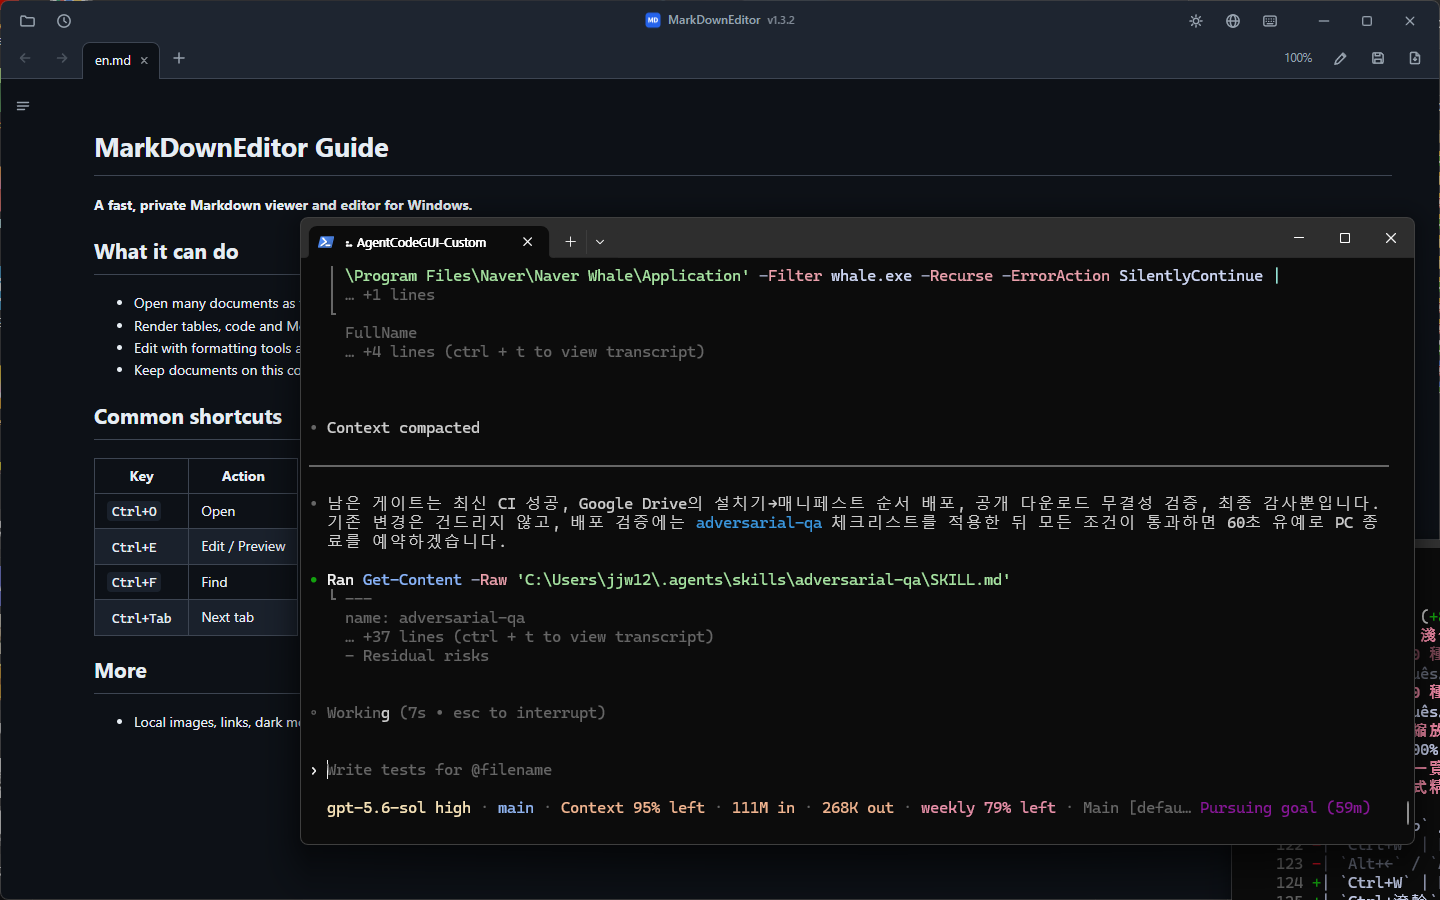
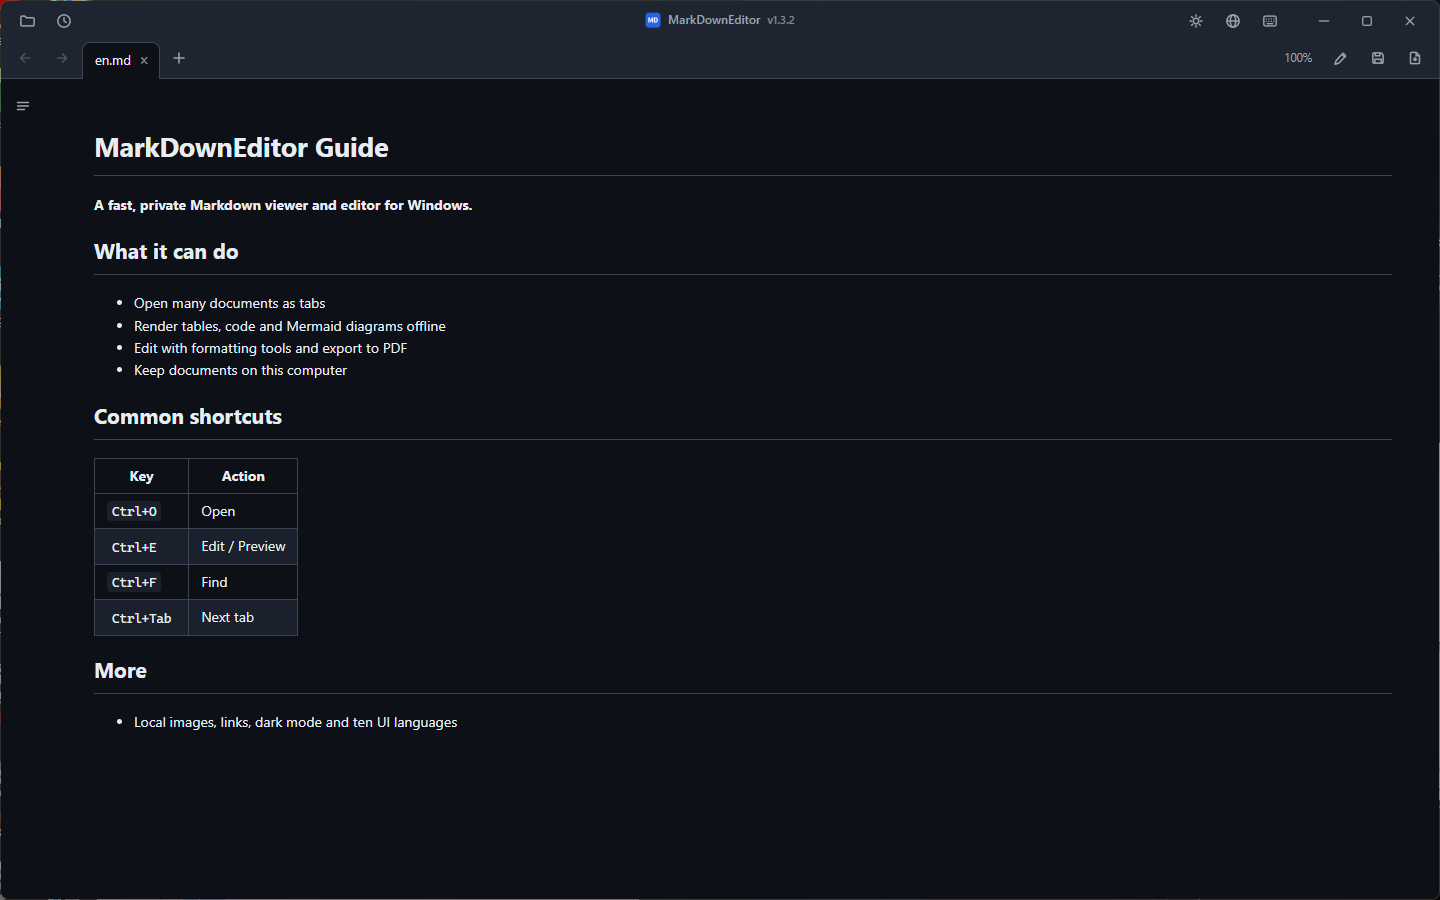
README 스크린샷 노출 정리
영어 미리보기의 터미널 노출을 제거하고 캡처 시 대상 창을 전면 활성화하도록 보강. 외부 캐시 오류를 보인 Downloads 배지는 모든 언어 README에서 제거.

diff --git a/README.md b/README.md
@@ -6,7 +6,6 @@ MarkDownEditor is a Markdown viewer and editor for Windows 10 and 11. Set it as 
 ![Platform](https://img.shields.io/badge/platform-Windows%2010%2F11%20x64-0078d6)
 ![Languages](https://img.shields.io/badge/UI-10%20languages-2ea44f)
 [![Release](https://img.shields.io/github/v/release/jjw1270/MarkdownEditor?include_prereleases)](https://github.com/jjw1270/MarkdownEditor/releases)
-[![Downloads](https://img.shields.io/github/downloads/jjw1270/MarkdownEditor/total?color=success)](https://github.com/jjw1270/MarkdownEditor/releases)
 
 [한국어](README.ko.md) · **English** · [日本語](README.ja.md) · [简体中文](README.zh-CN.md) · [繁體中文](README.zh-TW.md) · [Español](README.es.md) · [Français](README.fr.md) · [Deutsch](README.de.md) · [Русский](README.ru.md) · [Português (Brasil)](README.pt-BR.md)
 

diff --git a/README.de.md b/README.de.md
@@ -6,7 +6,6 @@ MarkDownEditor ist ein Markdown-Viewer und -Editor für Windows 10 und 11. Es gi
 ![Platform](https://img.shields.io/badge/platform-Windows%2010%2F11%20x64-0078d6)
 ![Languages](https://img.shields.io/badge/UI-10%20languages-2ea44f)
 [![Release](https://img.shields.io/github/v/release/jjw1270/MarkdownEditor?include_prereleases)](https://github.com/jjw1270/MarkdownEditor/releases)
-[![Downloads](https://img.shields.io/github/downloads/jjw1270/MarkdownEditor/total?color=success)](https://github.com/jjw1270/MarkdownEditor/releases)
 
 [한국어](README.ko.md) · [English](README.md) · [日本語](README.ja.md) · [简体中文](README.zh-CN.md) · [繁體中文](README.zh-TW.md) · [Español](README.es.md) · [Français](README.fr.md) · **Deutsch** · [Русский](README.ru.md) · [Português (Brasil)](README.pt-BR.md)
 

diff --git a/README.es.md b/README.es.md
@@ -6,7 +6,6 @@ MarkDownEditor es un visor y editor de Markdown para Windows 10 y 11. Está disp
 ![Platform](https://img.shields.io/badge/platform-Windows%2010%2F11%20x64-0078d6)
 ![Languages](https://img.shields.io/badge/UI-10%20languages-2ea44f)
 [![Release](https://img.shields.io/github/v/release/jjw1270/MarkdownEditor?include_prereleases)](https://github.com/jjw1270/MarkdownEditor/releases)
-[![Downloads](https://img.shields.io/github/downloads/jjw1270/MarkdownEditor/total?color=success)](https://github.com/jjw1270/MarkdownEditor/releases)
 
 [한국어](README.ko.md) · [English](README.md) · [日本語](README.ja.md) · [简体中文](README.zh-CN.md) · [繁體中文](README.zh-TW.md) · **Español** · [Français](README.fr.md) · [Deutsch](README.de.md) · [Русский](README.ru.md) · [Português (Brasil)](README.pt-BR.md)
 

diff --git a/README.fr.md b/README.fr.md
@@ -6,7 +6,6 @@ MarkDownEditor est un visualiseur et éditeur Markdown pour Windows 10 et 11. Il
 ![Platform](https://img.shields.io/badge/platform-Windows%2010%2F11%20x64-0078d6)
 ![Languages](https://img.shields.io/badge/UI-10%20languages-2ea44f)
 [![Release](https://img.shields.io/github/v/release/jjw1270/MarkdownEditor?include_prereleases)](https://github.com/jjw1270/MarkdownEditor/releases)
-[![Downloads](https://img.shields.io/github/downloads/jjw1270/MarkdownEditor/total?color=success)](https://github.com/jjw1270/MarkdownEditor/releases)
 
 [한국어](README.ko.md) · [English](README.md) · [日本語](README.ja.md) · [简体中文](README.zh-CN.md) · [繁體中文](README.zh-TW.md) · [Español](README.es.md) · **Français** · [Deutsch](README.de.md) · [Русский](README.ru.md) · [Português (Brasil)](README.pt-BR.md)
 

diff --git a/README.ko.md b/README.ko.md
@@ -6,7 +6,6 @@ MarkDownEditor는 Windows 10·11용 마크다운 뷰어 겸 에디터입니다. 
 ![Platform](https://img.shields.io/badge/platform-Windows%2010%2F11%20x64-0078d6)
 ![Languages](https://img.shields.io/badge/UI-10%20languages-2ea44f)
 [![Release](https://img.shields.io/github/v/release/jjw1270/MarkdownEditor?include_prereleases)](https://github.com/jjw1270/MarkdownEditor/releases)
-[![Downloads](https://img.shields.io/github/downloads/jjw1270/MarkdownEditor/total?color=success)](https://github.com/jjw1270/MarkdownEditor/releases)
 
 **한국어** · [English](README.md) · [日本語](README.ja.md) · [简体中文](README.zh-CN.md) · [繁體中文](README.zh-TW.md) · [Español](README.es.md) · [Français](README.fr.md) · [Deutsch](README.de.md) · [Русский](README.ru.md) · [Português (Brasil)](README.pt-BR.md)
 

diff --git a/README.ru.md b/README.ru.md
@@ -6,7 +6,6 @@ MarkDownEditor — просмотрщик и редактор Markdown для Wi
 ![Platform](https://img.shields.io/badge/platform-Windows%2010%2F11%20x64-0078d6)
 ![Languages](https://img.shields.io/badge/UI-10%20languages-2ea44f)
 [![Release](https://img.shields.io/github/v/release/jjw1270/MarkdownEditor?include_prereleases)](https://github.com/jjw1270/MarkdownEditor/releases)
-[![Downloads](https://img.shields.io/github/downloads/jjw1270/MarkdownEditor/total?color=success)](https://github.com/jjw1270/MarkdownEditor/releases)
 
 [한국어](README.ko.md) · [English](README.md) · [日本語](README.ja.md) · [简体中文](README.zh-CN.md) · [繁體中文](README.zh-TW.md) · [Español](README.es.md) · [Français](README.fr.md) · [Deutsch](README.de.md) · **Русский** · [Português (Brasil)](README.pt-BR.md)
 

diff --git a/README.pt-BR.md b/README.pt-BR.md
@@ -6,7 +6,6 @@ MarkDownEditor é um visualizador e editor de Markdown para Windows 10 e 11. Ele
 ![Platform](https://img.shields.io/badge/platform-Windows%2010%2F11%20x64-0078d6)
 ![Languages](https://img.shields.io/badge/UI-10%20languages-2ea44f)
 [![Release](https://img.shields.io/github/v/release/jjw1270/MarkdownEditor?include_prereleases)](https://github.com/jjw1270/MarkdownEditor/releases)
-[![Downloads](https://img.shields.io/github/downloads/jjw1270/MarkdownEditor/total?color=success)](https://github.com/jjw1270/MarkdownEditor/releases)
 
 [한국어](README.ko.md) · [English](README.md) · [日本語](README.ja.md) · [简体中文](README.zh-CN.md) · [繁體中文](README.zh-TW.md) · [Español](README.es.md) · [Français](README.fr.md) · [Deutsch](README.de.md) · [Русский](README.ru.md) · **Português (Brasil)**
 

diff --git a/README.zh-CN.md b/README.zh-CN.md
@@ -6,7 +6,6 @@ MarkDownEditor 是适用于 Windows 10 和 11 的 Markdown 查看器与编辑器
 ![Platform](https://img.shields.io/badge/platform-Windows%2010%2F11%20x64-0078d6)
 ![Languages](https://img.shields.io/badge/UI-10%20languages-2ea44f)
 [![Release](https://img.shields.io/github/v/release/jjw1270/MarkdownEditor?include_prereleases)](https://github.com/jjw1270/MarkdownEditor/releases)
-[![Downloads](https://img.shields.io/github/downloads/jjw1270/MarkdownEditor/total?color=success)](https://github.com/jjw1270/MarkdownEditor/releases)
 
 [한국어](README.ko.md) · [English](README.md) · [日本語](README.ja.md) · **简体中文** · [繁體中文](README.zh-TW.md) · [Español](README.es.md) · [Français](README.fr.md) · [Deutsch](README.de.md) · [Русский](README.ru.md) · [Português (Brasil)](README.pt-BR.md)
 

diff --git a/README.zh-TW.md b/README.zh-TW.md
@@ -6,7 +6,6 @@ MarkDownEditor 是適用於 Windows 10 和 11 的 Markdown 檢視器與編輯器
 ![Platform](https://img.shields.io/badge/platform-Windows%2010%2F11%20x64-0078d6)
 ![Languages](https://img.shields.io/badge/UI-10%20languages-2ea44f)
 [![Release](https://img.shields.io/github/v/release/jjw1270/MarkdownEditor?include_prereleases)](https://github.com/jjw1270/MarkdownEditor/releases)
-[![Downloads](https://img.shields.io/github/downloads/jjw1270/MarkdownEditor/total?color=success)](https://github.com/jjw1270/MarkdownEditor/releases)
 
 [한국어](README.ko.md) · [English](README.md) · [日本語](README.ja.md) · [简体中文](README.zh-CN.md) · **繁體中文** · [Español](README.es.md) · [Français](README.fr.md) · [Deutsch](README.de.md) · [Русский](README.ru.md) · [Português (Brasil)](README.pt-BR.md)
 
